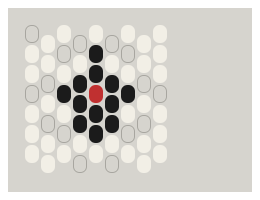
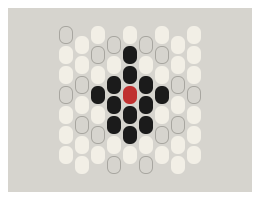
Open the pattern in the middle of the window
The field puts the pattern in its middle the first time it has a size, not
at the top left corner. A window test checks the middle of the pattern is
the middle of the field.

Changed region(s): [[0.0923, 0.12, 0.8, 0.87], [0.7692, 0.45, 0.8, 0.48]]

diff --git a/crates/obusina-canvas/src/view.rs b/crates/obusina-canvas/src/view.rs
@@ -14,18 +14,28 @@ pub struct View {
     pub offset: Vec2,
     /// The height of a bead, in points.
     pub bead: f32,
+    /// The pattern has been put in the middle of the field once.
+    pub centred: bool,
 }
 
 impl Default for View {
     fn default() -> Self {
         View {
-            offset: Vec2::splat(16.0),
+            offset: Vec2::ZERO,
             bead: 20.0,
+            centred: false,
         }
     }
 }
 
 impl View {
+    /// Puts a pattern of `extent` points in the middle of a field of `field`
+    /// points.
+    pub fn centre(&mut self, field: Vec2, extent: Vec2) {
+        self.offset = (field - extent) / 2.0;
+        self.centred = true;
+    }
+
     /// Zooms by `factor`, keeping the point `anchor` of the field still.
     pub fn zoom(&mut self, factor: f32, anchor: Vec2) {
         let bead = (self.bead * factor).clamp(MIN_BEAD, MAX_BEAD);
@@ -44,6 +54,7 @@ mod tests {
         let mut view = View {
             offset: Vec2::new(10.0, 10.0),
             bead: 20.0,
+            centred: true,
         };
         let anchor = Vec2::new(50.0, 30.0);
         let before = (anchor - view.offset) / view.bead;
@@ -52,6 +63,16 @@ mod tests {
 
         assert_eq!(view.bead, 40.0);
         assert_eq!((anchor - view.offset) / view.bead, before);
+    }
+
+    #[test]
+    fn a_pattern_is_centred_in_the_field() {
+        let mut view = View::default();
+
+        view.centre(Vec2::new(1000.0, 700.0), Vec2::new(400.0, 600.0));
+
+        assert_eq!(view.offset, Vec2::new(300.0, 50.0));
+        assert!(view.centred);
     }
 
     #[test]

diff --git a/crates/obusina-canvas/src/lib.rs b/crates/obusina-canvas/src/lib.rs
@@ -63,6 +63,9 @@ impl<'a> Canvas<'a> {
     /// Draws the field over all the space left in `ui`.
     pub fn show(mut self, ui: &mut Ui) -> CanvasResponse {
         let (rect, response) = ui.allocate_exact_size(ui.available_size(), Sense::click_and_drag());
+        if !self.view.centred && rect.is_positive() {
+            self.view.centre(rect.size(), self.extent());
+        }
         self.navigate(ui, &response);
 
         let painter = ui.painter_at(rect);
@@ -144,6 +147,16 @@ impl<'a> Canvas<'a> {
         };
         let point = response.interact_pointer_pos()?;
         self.cell_at(origin, point).map(|cell| (cell, press))
+    }
+
+    /// The size of the whole pattern on the screen.
+    fn extent(&self) -> Vec2 {
+        let pattern = self.pattern;
+        let (width, height) =
+            pattern
+                .grid()
+                .extent(pattern.width(), pattern.height(), pattern.ratio());
+        vec2(width, height) * self.view.bead
     }
 
     /// The rectangle of one bead on the screen.

diff --git a/src/window_tests.rs b/src/window_tests.rs
@@ -546,3 +546,23 @@ fn every_button_of_the_panels_has_one_size() {
         assert_eq!(size, crate::ui::button::SIZE, "{name}");
     }
 }
+
+#[test]
+fn the_pattern_opens_in_the_middle_of_the_window() {
+    let window = window();
+    let app = window.harness.state();
+    let field = window.harness.get_by_label(&t!("field")).rect();
+    let (width, height) = app.pattern.grid().extent(
+        app.pattern.width(),
+        app.pattern.height(),
+        app.pattern.ratio(),
+    );
+    let middle = field.min + app.view.offset + egui::vec2(width, height) * app.view.bead / 2.0;
+
+    assert!(
+        (middle - field.center()).length() < 1.0,
+        "{middle:?} != {:?}",
+        field.center()
+    );
+}
+

diff --git a/crates/obusina-canvas/README.md b/crates/obusina-canvas/README.md
@@ -7,6 +7,8 @@ The field of beads: an egui widget that draws an
 
 - Draws every bead at its proportions, with a small gap. An empty place is an
   outline.
+- Puts the pattern in the middle of the field the first time the field has a
+  size.
 - Moves and zooms the field by its [`View`]:
 
   | Input | Result |
